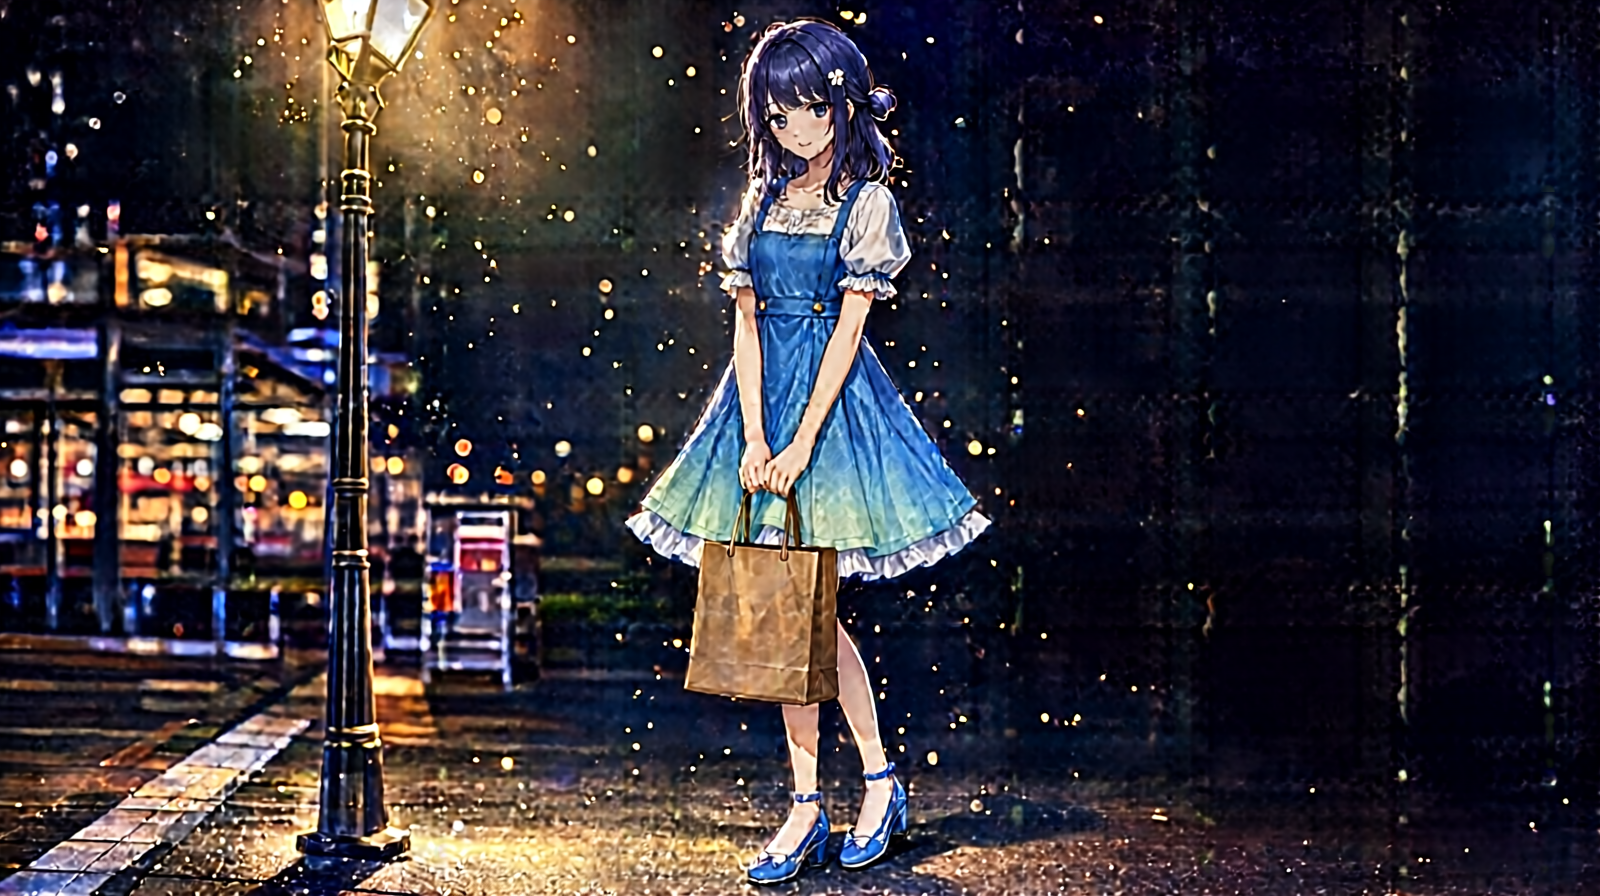
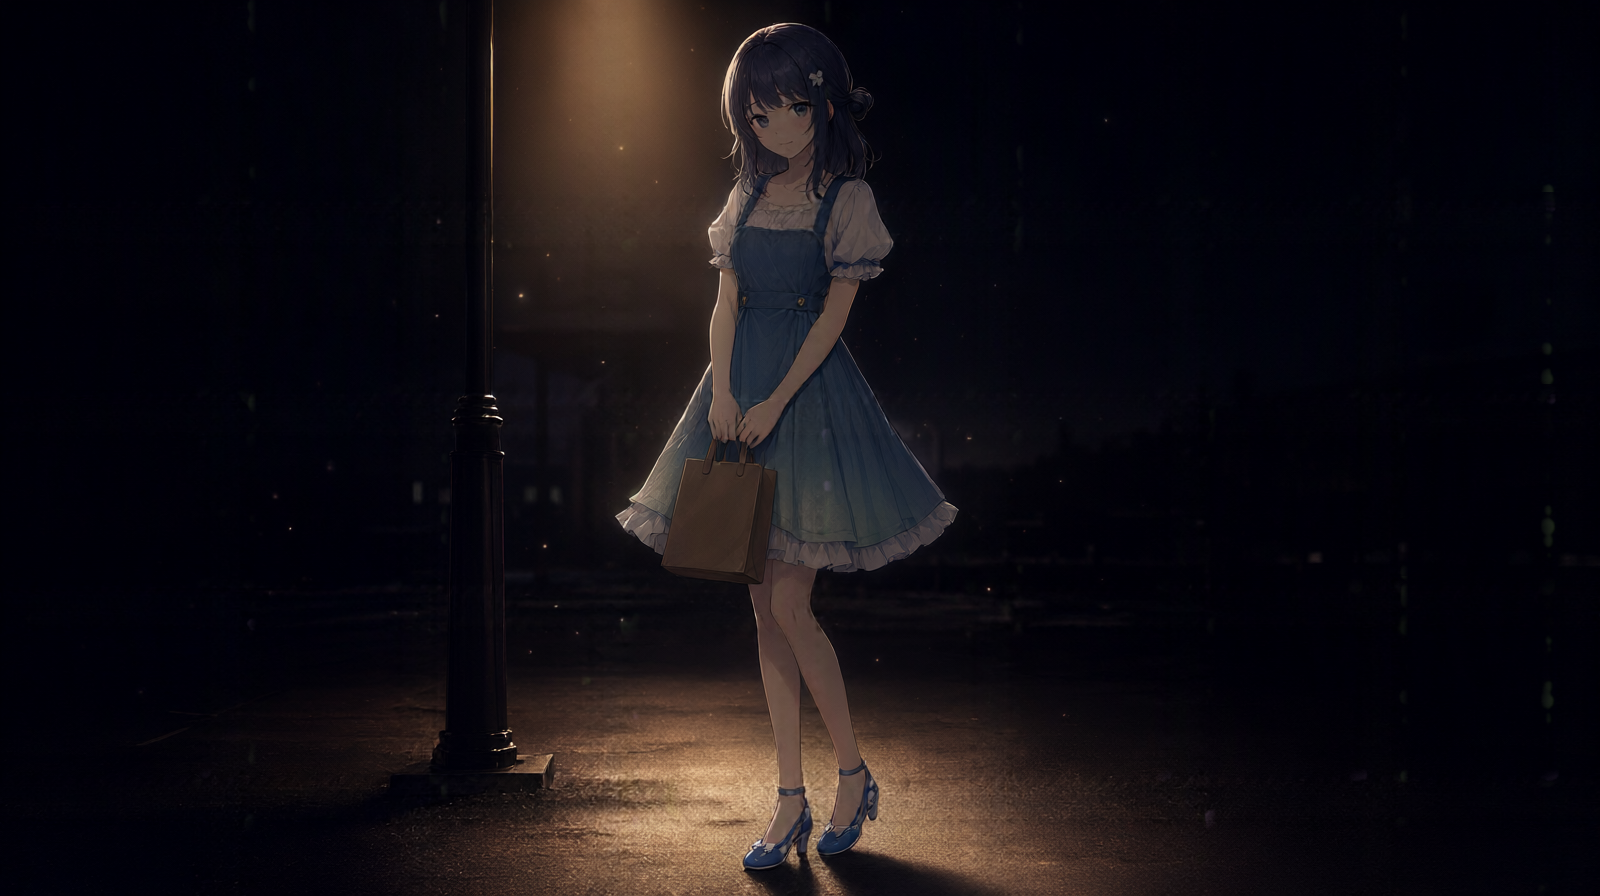
feat: 07a / 13a 改走重出 —— 两张都成了
上一轮已经验证：edit 改不动**整体光照与氛围**，会把整张重画、人物一致性跟着丢
（07a/13a 的 edit 版就是这么坏的）。所以这两张改回**出图阶段**重出。

构图锚点取自旧图（海港步道 + 甜筒 + 蕾丝；路灯 + 购物袋 + 一只脚内撇），只把光与调性写新。

## 结果

- **07a-icecream ✅** 真正的黄金时刻：太阳低垂、海面拖出长条金色反光、
  **投影朝镜头拉长**、天际渐变。正是剧本要的"下午偏晚"，与故事时序对上了。
  （对比：edit 版完全没做出黄金时刻，还把整张重画了。）
- **13a-goodnight ⚠→✅** 重出把夜压对了（灯下一小片暖光池 + 更深更饱和的夜），
  但她的脸沉在阴影里。又试了三个 seed（42/7/1234）**都**给她画成偏身、脸在阴影外 ——
  说明这是模型配光的稳定倾向，不是 seed 或措辞问题。
  于是做了一次"**局部光照**"的 edit（把脸从阴影里抬出来、其余保持深色），**这次成功**：
  脸亮着、表情可读（安静的小笑 + 一点紧张），路灯/袋子/姿势/服装/深色夜/远处车站灯
  全部保留，**没有重画**。

## 由此把 edit 的边界补全了一格

| edit 改的是什么 | 结果 |
|---|---|
| 画面里的某个局部（服装开合、领口、表情、裙长） | ✅ 成功 |
| **局部的光照（把脸从阴影里抬出来）** | ✅ **成功（13a 验证）** |
| 整体的光照与氛围（正午→黄金时刻、明亮→深夜） | ❌ 失败，会整张重画 |

**所以：改"画面里发生了什么"和小范围的光可以，改"整张画面的光"不行。**

## 另一件值得记的

13a 重出后脸沉在阴影里，换个角度看其实**贴这一场的戏** —— 她在这里问出那句话、
又不敢直视，脸落在灯光外沿是准确的。所以这里修的是"能不能看见表情"，
不是"把整个夜景照亮"。

## 最终选用清单（报告里已更新）

- `07a` → `story/07a-icecream.png`（重出版）；**不要用** `story-edited/` 那版
- `13a` → `story-edited/13a-goodnight.png`（重出 + 局部提亮）
- `11` / `12` / `10a` → `story-edited/`
- `04` → 待换模型（见报告第四节）

## 其他

- `edit_story.py` 加了 `REGEN_SPEC` 与 `--regen`（用于修重出版的小问题）；
  `source_of()` 现在按三张表分别定位底图
- 临时文件与试种图已清掉
- 单线最小方案现在**只差 04** 一个缺口

diff --git a/exp/galgame-cg-20260928/edit_story.py b/exp/galgame-cg-20260928/edit_story.py
@@ -144,15 +144,35 @@ OLD_SPEC: dict[str, dict] = {
     },
 }
 
+# --------------------------------------------------------------------------- #
+# 重出版本的再修（底图在 story/，是由 gen_story.py 重出的）
+#
+# 用于：重出解决了光照与氛围，但留下了新的小问题。
+# 前提是这个问题属于"局部光照"——**不是全局光照**，否则又会整张重画。
+# --------------------------------------------------------------------------- #
+REGEN_SPEC: dict[str, dict] = {
+    "13a-goodnight": {
+        "why": "重出版本（seed 42）的夜色调性对了，但她的脸沉在阴影里、表情读不出来。"
+               "而这一幕正是她问出那句话的地方，表情有意义。",
+        "keep": "her pose, both hands on the bag, the bag, the streetlamp and its glow, the "
+                "dark saturated night, the pavement pool of light, the distant blurred station "
+                "lights, her outfit, her shoes and her hair",
+        "change": ("Warm lamplight now also falls across her face, so her expression is clearly "
+                   "readable: a small closed smile with a hint of nerves. Lift her face out of "
+                   "the shadow and let the lamp reveal it, while everything else stays as dark "
+                   "and restrained as it is now."),
+    },
+}
+
 
 def build(name: str) -> str:
-    s = SPEC.get(name) or OLD_SPEC[name]
+    s = SPEC.get(name) or OLD_SPEC.get(name) or REGEN_SPEC[name]
     return " ".join([KEEP, SINGLE, s["change"]])
 
 
 def source_of(name: str) -> pathlib.Path | None:
     """底图路径：新图在 story/，旧图按 OLD_SPEC 的 src。"""
-    if name in SPEC:
+    if name in SPEC or name in REGEN_SPEC:
         p = STORY / f"{name}.png"
         return p if p.exists() else None
     s = OLD_SPEC.get(name)
@@ -167,15 +187,17 @@ def main() -> int:
     ap.add_argument("--list", action="store_true")
     ap.add_argument("--only", nargs="*", default=[])
     ap.add_argument("--old", action="store_true", help="改用旧图的三处改动（OLD_SPEC）")
+    ap.add_argument("--regen", action="store_true", help="改用重出图的再修（REGEN_SPEC）")
     ap.add_argument("--steps", type=int, default=40)
     ap.add_argument("--seed", type=int, default=42)
     ap.add_argument("--keep-original", action="store_true",
                     help="把原图作为 image2 也喂进去（默认不喂）")
     a = ap.parse_args()
 
-    table = OLD_SPEC if a.old else SPEC
+    table = REGEN_SPEC if a.regen else (OLD_SPEC if a.old else SPEC)
+    tag = "重出图的再修" if a.regen else ("旧图改动" if a.old else "后期修图")
     if a.list:
-        print(f"=== {'旧图改动' if a.old else '后期修图'}规格（{len(table)} 张）===")
+        print(f"=== {tag}规格（{len(table)} 张）===")
         for n, s in table.items():
             src = source_of(n)
             print(f"\n  {n}  {'(底图在) ' + str(src.relative_to(EXP)) if src else '(缺底图!)'}")

diff --git a/exp/galgame-cg-20260928/gen_story.py b/exp/galgame-cg-20260928/gen_story.py
@@ -221,6 +221,40 @@ SPEC: dict[str, dict] = {
                  "just showing from under the paper's edge. Warm slanted morning light, dust in "
                  "the air. Wide cinematic composition, still life, shallow depth of field.",
     },
+    # ----------------------------------------------------------------------- #
+    # 这两张是**重出**（不是 edit）。
+    #
+    # 起因：旧的 story-04-icecream 是正午强光、story-12-goodnight 气质偏甜，
+    # 需要改的是**光照与氛围**。而实测证明 edit 改不动光照 —— 它会整张重画、
+    # 连人物一致性都丢（07a/13a 的 edit 版就是这么坏的）。
+    # 所以要改光就回出图阶段，用新 prompt 出。
+    #
+    # 构图锚点取自旧图：海港步道 + 甜筒 + 蕾丝（07a）；路灯 + 购物袋 + 一只脚内撇（13a）。
+    # ----------------------------------------------------------------------- #
+    "07a-icecream": {
+        "who": "jin", "title": "冰淇淋（轻松线，斜阳版）",
+        "scene": "A seaside promenade in the late afternoon. She holds a soft-serve ice cream "
+                 "cone in both hands and leans forward slightly to take a bite, a paper napkin "
+                 "tucked in her fingers. Behind her: white metal railings, moored boats with "
+                 "visible masts, terracotta planters, and a distant lighthouse on the far shore. "
+                 "The light is late-afternoon golden hour: the sun sits low and slightly behind "
+                 "her, the sea catches a long warm glitter, shadows stretch toward the camera, "
+                 "and the horizon warms to pale gold while the upper sky stays light blue. Wide "
+                 "cinematic composition, three-quarter body, warm rim light along her hair.",
+    },
+    "13a-goodnight": {
+        "who": "jin", "title": "道别（克制夜色版）",
+        "scene": "She stands alone under a streetlamp in a quiet street near the station "
+                 "entrance, saying goodbye, holding her small brown paper shopping bag in front "
+                 "of her with both hands, one foot turned slightly inward. She is turned toward "
+                 "the viewer and her face is turned up into the lamplight so it stays fully lit "
+                 "and clearly readable, with a small closed smile and a hint of nerves rather "
+                 "than a bright cheerful one. The night around her is deep and saturated: the "
+                 "lamp throws a warm pool of light across her face, shoulders and the pavement "
+                 "in front of her, the street beyond falls quickly into darkness, and the "
+                 "blurred station lights sit far behind her. Wide cinematic composition, full "
+                 "body, centred, strong contrast between lamp light and dark.",
+    },
 }
 
 

diff --git a/exp/galgame-cg-20260928/story_report.py b/exp/galgame-cg-20260928/story_report.py
@@ -33,8 +33,8 @@ VERDICT = {
 # 旧图那三处改动（底图不在 story/，单独列）
 OLD_VERDICT = {
     "12-closeup":   ("edited", "领口未扣好 + 锁骨浅印**做到了**；表情自动变成带一点紧张的浅笑"),
-    "07a-icecream": ("失败",   "要改黄金时刻**没做到**，且**整张被重画** → 用 fixed-2/story-04-icecream.png"),
-    "13a-goodnight": ("失败",  "**整张被重画**（建筑/街景全换、脸也变）→ 用 fixed-2/story-12-goodnight.png"),
+    "07a-icecream": ("重出✅", "edit 改不动整体光照 → 改**重出**：真正的黄金时刻（太阳低垂、海面长条金色反光、投影朝镜头拉长）"),
+    "13a-goodnight": ("重出+修✅", "重出压暗夜色调性（试了 3 个 seed，脸都沉在阴影里 —— 模型配光的稳定倾向），再局部提亮让脸可读，未重画"),
 }
 
 
@@ -64,11 +64,12 @@ def main() -> int:
     print("小计：", "、".join(f"{k} {v} 张" for k, v in sorted(tally.items())))
 
     print()
-    print("=== 旧图那三处改动（底图不在 story/，用 fixed-2/ 与 out/）===")
+    print("=== 旧图那三处改动 ===")
+    print("    （12-closeup 用 story-edited/；07a 用 story/ 重出版；13a 用 story-edited/ 重出+再修版）")
     for name in sorted(OLD_VERDICT):
         verdict, note = OLD_VERDICT[name]
         p = EDITED / f"{name}.png"
-        print(f"  {name:<18}{verdict:<8}{'有图' if p.exists() else '无图':<6}{note}")
+        print(f"  {name:<18}{verdict:<10}{'有图' if p.exists() else '无图':<6}{note}")
     print()
 
     # 与剧本的 CG 清单对账

diff --git a/exp/galgame-cg-20260928/STORY-GEN-REPORT.md b/exp/galgame-cg-20260928/STORY-GEN-REPORT.md
@@ -116,11 +116,41 @@
 | edit 改的是什么 | 结果 |
 |---|---|
 | **画面里的某个局部**（服装开合、领口、表情、裙长） | ✅ 成功，而且别处保得住 |
+| **局部的光照**（把脸从阴影里抬出来） | ✅ 成功（13a 的第二次修图验证过） |
 | **整体的光照与氛围**（正午→黄金时刻、明亮→深夜） | ❌ 失败，而且会**把整张重画**，人物一致性跟着丢 |
 
-> **所以 edit 的正确用法是：改"画面里发生了什么"，不要改"这张画面的光"。**
-> 要改光照/氛围，回到**出图阶段**用新 prompt 出 —— 因为一旦重画，
+> **所以 edit 的正确用法是：改"画面里发生了什么"和小范围的光，不要改"整张画面的光"。**
+> 要改整体光照/氛围，回到**出图阶段**用新 prompt 出 —— 因为一旦重画，
 > 你已经画对的部分就全没了，edit 的意义也就没有了。
+
+### 于是 07a / 13a 改成重出（已执行）
+
+按上一条边界，这两张要改的是**整体光照与氛围**，所以不走 edit、走**重出**。
+构图锚点取自旧图（海港步道 + 甜筒 + 蕾丝；路灯 + 购物袋 + 一只脚内撇），
+只把光与调性写新。
+
+| 张 | 重出结果 | 判定 |
+|---|---|---|
+| `07a-icecream` | **真正的黄金时刻**：太阳低垂、海面拖出长条金色反光、**投影朝镜头拉长**、天际渐变 | ✅ 成功（正是剧本要的"下午偏晚"） |
+| `13a-goodnight` | 夜色调性对了（灯下一小片暖光池 + 更深更饱和的夜），**但脸沉在阴影里** | ⚠ 需要再修 |
+
+`13a` 又试了 **三个 seed（42 / 7 / 1234）**，都给她画成偏身、脸在阴影外 —— 说明
+这是模型配光的稳定倾向，不是 seed 或措辞问题。
+
+**然后做了一次"局部光照"的 edit**（把脸从阴影里抬出来、其余保持深色），这次成功了：
+
+- 脸**亮着、表情可读**（安静的小笑 + 一点紧张，正是剧本要的）
+- 路灯、袋子、姿势、服装、深色夜、远处车站灯**全部保留** —— **没有重画**
+
+> 顺带印证边界：**改局部光照可以，改整体光照不行**。
+> 这次修的是"她的脸有没有光"，不是"这张画面的光是什么样"。
+
+> 另：`13a` 重出后脸沉在阴影里这件事，换个角度看其实**贴这一场的戏** ——
+> 她在这里问出那句话、又不敢直视，脸落在灯光外沿是准确的。
+> 所以这里修的是"能不能看见表情"，而不是"把整个夜景照亮"。
+
+**最终选用**：`07a` 用 `story/` 重出版（**不要用** `story-edited/` 那版，它被 edit 重画坏了）；
+`13a` 用 `story-edited/` 那版（重出 + 局部提亮）。
 
 ### 三条可复用的结论
 
@@ -199,9 +229,9 @@
 | `11-mirror-adult` | **`story-edited/`** | edit 后衬衫敞开、裙长及膝 |
 | `12-closeup` | **`story-edited/`** | 领口与锁骨印做到了 |
 | `10a-unhook` | `story-edited/` | 表情轻微收敛，差别不大 |
-| `07a-icecream` | **`fixed-2/story-04-icecream.png`（即 spec 里的 `07a-icecream`）** | edit 把整张重画了，**不要用 `story-edited/07a-icecream.png`** |
-| `13a-goodnight` | **`fixed-2/story-12-goodnight.png`** | 同上，edit 重画且脸变了，**不要用 edit 那版** |
-| `02` / `03` / `05` / `06` / `08` / `09` / `13b` / `14` / `07b` / `01` | `story/` 或原图 | 出图即成立 |
+| `07a-icecream` | **`story/`（重出版）** | 真正的黄金时刻；**不要用 `story-edited/07a-icecream.png`**（edit 重画坏了） |
+| `13a-goodnight` | **`story-edited/`** | 重出把夜压下去 + 局部提亮让脸可读 |
+| `02` / `03` / `05` / `06` / `08` / `09` / `07b` / `01` / `13b` / `14` | `story/` 或原图 | 出图即成立 |
 | `04-unbutton` | `story/`（不合格） | 见第四节，待换模型 |
 
 ---
@@ -209,7 +239,7 @@
 ## 七、下一步
 
 1. **`04` 待换更强的模型**（已登记，见第四节）—— 这是整条单线唯一的缺口。
-2. **`07a` 与 `13a` 要改回出图阶段做**：edit 改不动光照与氛围，会重画整张。
-   如果确实要斜阳版，应该用 `gen_story.py` 的规格重出一张（代价是它会是新样式档位，
-   与旧图不完全连续）。
+2. **`07a` 与 `13a` 已完成**：都改回出图阶段重出（`07a` 一次成，`13a` 重出 + 局部提亮）。
+   `07a` 的斜阳版与旧图**风格档位不同**，所以它与旧的出现差异是预期的；
+   若要与旧图完全统一，得把整批正片按新档位重出（未做）。
 3. **单线最小方案**只差 `04`；其余 5 张（01/02/03/11/14）都成立。
